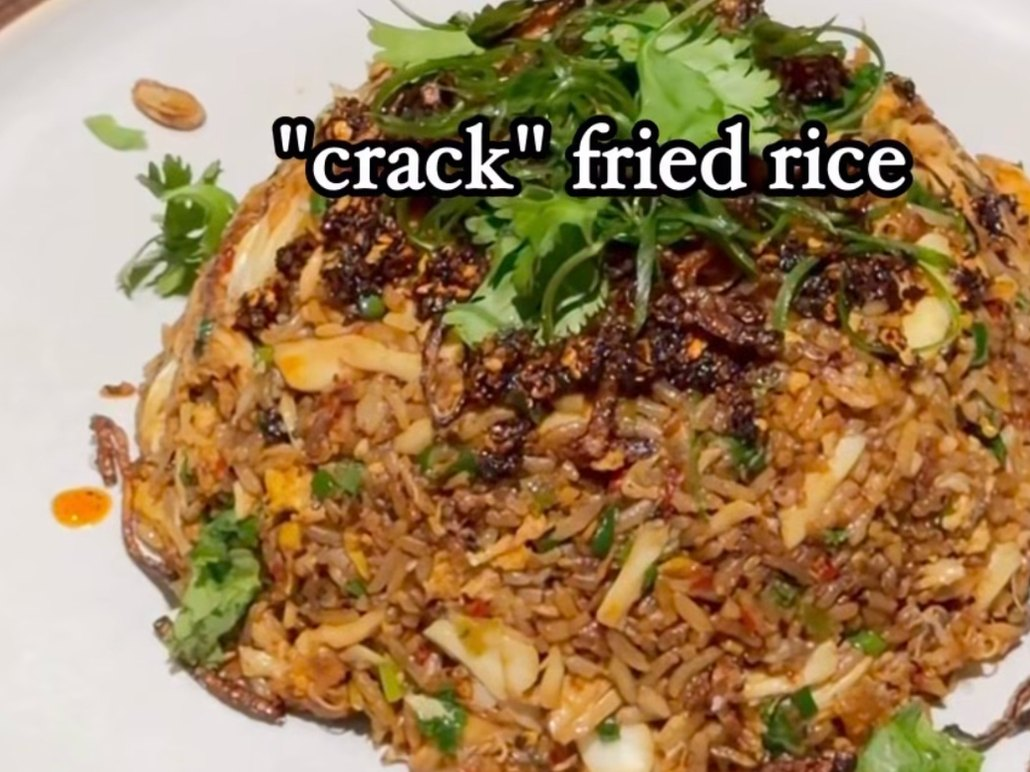
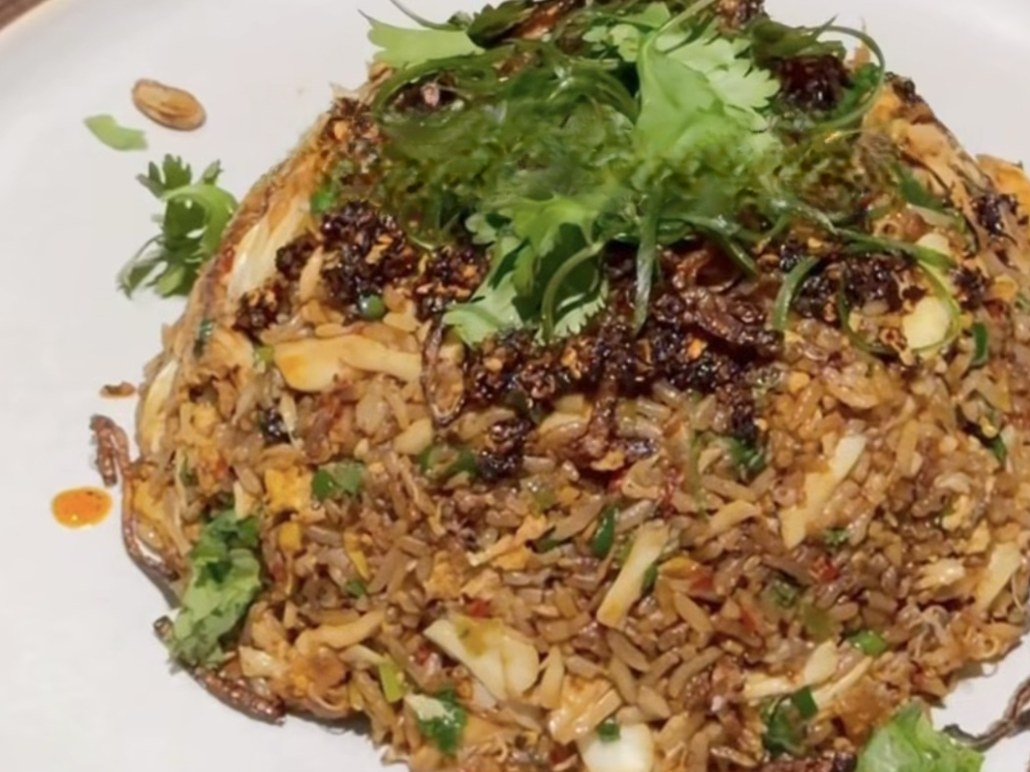
Add Gochujang Chicken and Rice; clean overlay text from photos
Removed the reel's caption, play buttons and app icons from the new photo,
and the caption from the Crack Fried Rice photo.

Claude-Session: https://claude.ai/code/session_01XCEhRwYeuzxH8bcuoirySQ

diff --git a/recipes/book.md b/recipes/book.md
@@ -12,7 +12,7 @@ Every recipe pulled from past chats, compiled in one place. Grouped by category.
 
 **Baking and Sweets:** Sugar Moon Espresso Cornflake Cookies (Copycat) · Bakery Cookie Skillet · Soft and Chewy Oatmeal Chocolate Chip Cookies · Pan de Muerto · Latino Foodie Pan de Muerto · Gingerbread Latte Cookies · Chocolate Soufflés · Conchas · Peach Cobbler · Warm Sweet Potato-Apple Pone · Strawberry Shortcake · London Fog Loaf Cake · Homemade Cinnamon Rolls · Kevin Gillespie's Warm Banana Pudding with Meringue · Jamaican Banana Fritters
 
-**Mains:** Jamaican Brown Stew Oxtail (5 lb Practice Batch + Competition Plating) · Jerk Spiced Duck Tacos (Bon Appétit) · Mexican Style Flank Steak Tacos · Short Rib Bulgogi · Thai Red Curry with Chicken · Thai Green Curry with Chicken · Khao Pad (Thai Fried Rice) · Nigerian Red Stew · Nonna Style Turkey Meatballs · Creamy Lemon Pesto Pasta · Oxtail and Butter Beans · Birria de Res (Beef Birria) · Quesabirria Tacos · Stew Peas and Spinners · Spicy Red Pesto Pasta · Ricotta Pasta Alla Vodka · Pasta Alla Norma Sorta · Grilled Cheese With Apples and Apple Butter · Golden Krust Jamaican Oxtail Stew · Roast Chicken With Maple Butter and Rosemary · Smoked Mackerel Rundown · Peruvian Roasted Chicken With Spicy Cilantro Sauce · Peruvian Pork Stew With Chiles, Lime and Apples · Closed On Sunday Chicken Sandwich · Crack Fried Rice · Brown Stew Chicken
+**Mains:** Jamaican Brown Stew Oxtail (5 lb Practice Batch + Competition Plating) · Jerk Spiced Duck Tacos (Bon Appétit) · Mexican Style Flank Steak Tacos · Short Rib Bulgogi · Thai Red Curry with Chicken · Thai Green Curry with Chicken · Khao Pad (Thai Fried Rice) · Nigerian Red Stew · Nonna Style Turkey Meatballs · Creamy Lemon Pesto Pasta · Oxtail and Butter Beans · Birria de Res (Beef Birria) · Quesabirria Tacos · Stew Peas and Spinners · Spicy Red Pesto Pasta · Ricotta Pasta Alla Vodka · Pasta Alla Norma Sorta · Grilled Cheese With Apples and Apple Butter · Golden Krust Jamaican Oxtail Stew · Roast Chicken With Maple Butter and Rosemary · Smoked Mackerel Rundown · Peruvian Roasted Chicken With Spicy Cilantro Sauce · Peruvian Pork Stew With Chiles, Lime and Apples · Closed On Sunday Chicken Sandwich · Crack Fried Rice · Brown Stew Chicken · Gochujang Chicken and Rice
 
 **Sides and Salads:** Roasted Dumpling Squash · Baked Garlic Rice · Buss Up Shut (Paratha-Style Roti)
 
@@ -2443,6 +2443,53 @@ Chicken thighs and drumsticks marinated in green seasoning, spices and browning,
 **Notes**
 - From an Instagram post (the account name is cut off in the screenshot): "This was too good… Are you picking this or oxtail?"
 - Pairs with rice and peas.
+
+---
+
+## Gochujang Chicken and Rice
+
+Crisp, soy-honey glazed chicken thighs sliced over rice in a creamy gochujang and coconut broth, finished with fried onions and curled green onions.
+
+**Tags:** korean-inspired, gochujang, chicken, rice, coconut, weeknight
+**Yield:** Serves 2
+**Image:** images/gochujang-chicken-and-rice.jpg
+
+**Gochujang broth**
+- 2 tbsp gochujang
+- 300 ml coconut milk
+- 2 garlic cloves
+- 1/2 chicken stock cube
+- 1 tsp smoked paprika powder
+- 2 tsp brown sugar
+- Small knob of butter (for heating)
+
+**Chicken**
+- 2 large chicken thighs
+- Salt and pepper
+- 4 tbsp soy sauce
+- 2 tbsp water
+- 1 tbsp mirin
+- 2 tbsp honey
+- 1 tbsp brown sugar
+
+**To serve**
+- Rice
+- Green onions
+- Fried onions
+
+**Method**
+1. **Sear:** Season the chicken thighs with salt and pepper and fry over medium heat until a nice crust has formed.
+2. **Glaze:** Add the soy sauce, water, mirin, honey and brown sugar to the pan. Let it reduce and coat the chicken in a sticky glaze.
+3. **Rest:** Take the chicken out of the pan and let it rest before slicing.
+4. **Blend:** Put all the gochujang broth ingredients in a bowl or blender and blend until smooth.
+5. **Heat:** Warm the broth in a saucepan with a small knob of butter until hot, but not too hot to eat.
+6. **Assemble:** Serve the rice in a bowl, lay the sliced chicken on top and spoon the broth around it.
+7. **Garnish:** Finish with fried onions and curled green onions.
+
+**Notes**
+- For curled green onions, slice them very thinly lengthwise and put them in ice water for 10 minutes so they curl up.
+
+*Source: Instagram (@basbites_): https://www.instagram.com/basbites_/*
 
 ---
 
